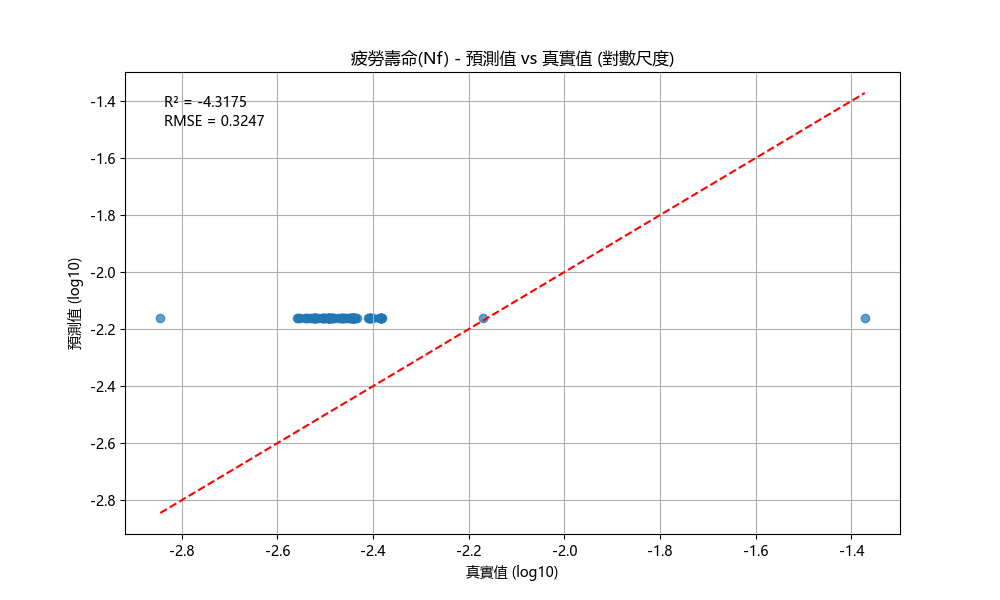
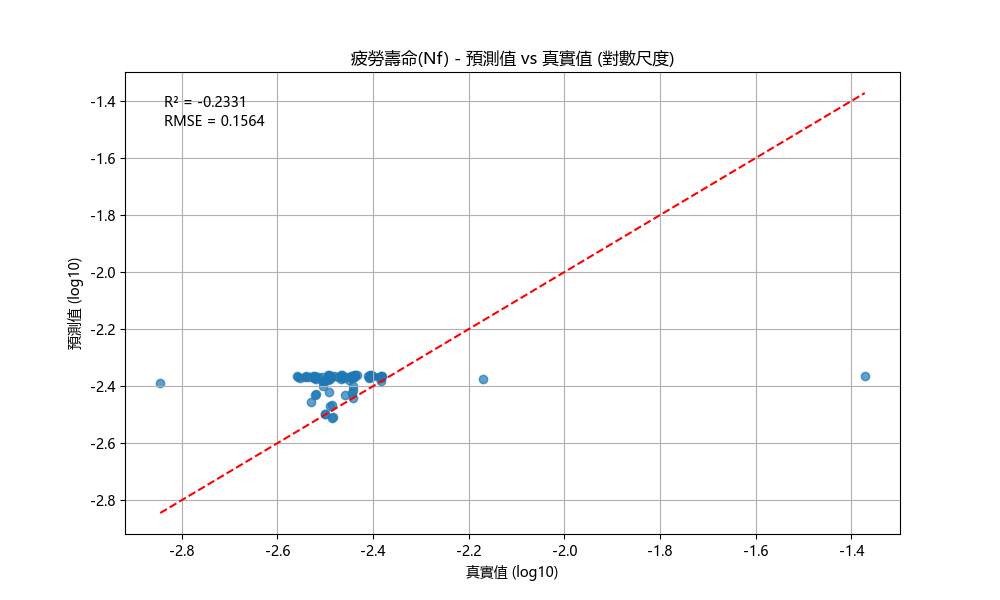
first commit

diff --git a/src/hybrid_model.py b/src/hybrid_model.py
@@ -85,46 +85,49 @@ class HybridPINNLSTM(nn.Module):
         super(HybridPINNLSTM, self).__init__()
         self.config = config
         
-        # 改進：使用 LayerNorm 取代 BatchNorm
+        # 靜態特徵編碼器 - 使用更深層的網絡處理靜態特徵
         static_dim = config.static_dim
         self.static_encoder = nn.Sequential(
             nn.Linear(static_dim, 32),
-            nn.LayerNorm(32),  # 替換為 LayerNorm
-            nn.LeakyReLU(0.1),
+            nn.LayerNorm(32),
+            nn.GELU(),  # 使用GELU激活函數提高非線性能力
             nn.Dropout(0.2),
             nn.Linear(32, 24),
-            nn.LayerNorm(24),  # 替換為 LayerNorm
-            nn.LeakyReLU(0.1),
-            nn.Dropout(0.2),
-            nn.Linear(24, 16),
+            nn.LayerNorm(24),
+            nn.GELU(),
+            nn.Dropout(0.1),
+            nn.Linear(24, 16)
         )
         
-        # LSTM 編碼器和注意力機制保持不變
+        # 時間序列編碼器 - 使用更強大的雙向LSTM
         self.ts_encoder = nn.LSTM(
             input_size=config.ts_feature_dim,
-            hidden_size=24,
+            hidden_size=32,  # 增加隱藏維度
             num_layers=2,
             batch_first=True,
             bidirectional=True,
             dropout=0.2
         )
         
+        # 更強大的注意力機制
         self.attention = nn.Sequential(
-            nn.Linear(48, 1),  # 雙向LSTM輸出維度為24*2=48
+            nn.Linear(64, 32),  # 雙向LSTM輸出維度為32*2=64
+            nn.Tanh(),
+            nn.Linear(32, 1),
             nn.Softmax(dim=1)
         )
         
-        # 融合層 - 簡化並添加批標準化
-        self.fusion_layer = nn.Sequential(
-            nn.Linear(16 + 48, 32),
-            nn.LayerNorm(32),  # 使用LayerNorm替代BatchNorm，可以處理單樣本批次
-            nn.ReLU(),
-            nn.Dropout(0.1),
-            nn.Linear(32, 16),
-            nn.LayerNorm(16),  # 使用LayerNorm替代BatchNorm
-            nn.ReLU(),
-            nn.Linear(16, 2)
-        )
+        # 融合層 - 使用殘差連接和更多層
+        self.fusion_layer1 = nn.Linear(16 + 64, 48)
+        self.layer_norm1 = nn.LayerNorm(48)
+        self.fusion_layer2 = nn.Linear(48, 32)
+        self.layer_norm2 = nn.LayerNorm(32)
+        self.fusion_layer3 = nn.Linear(32, 16)
+        self.layer_norm3 = nn.LayerNorm(16)
+        self.output_layer = nn.Linear(16, 2)
+        
+        # 使用特殊映射層處理異常值
+        self.anomaly_detector = nn.Linear(16 + 64, 1)
         
         # 初始化權重
         self._initialize_weights()
@@ -170,11 +173,34 @@ class HybridPINNLSTM(nn.Module):
         # 合併特徵
         combined = torch.cat([static_out, context_vector], dim=1)
         
-        # 使用融合層
-        out = self.fusion_layer(combined)
+        # 異常檢測分支
+        anomaly_score = torch.sigmoid(self.anomaly_detector(combined))
         
-        # 範圍控制：確保輸出落在合理範圍內
-        delta_w_pred = 0.04 + 0.02 * torch.tanh(out)
+        # 使用具有殘差連接的融合層
+        x1 = F.gelu(self.layer_norm1(self.fusion_layer1(combined)))
+        x2 = F.gelu(self.layer_norm2(self.fusion_layer2(x1) + x1[:, :32]))  # 部分殘差連接
+        x3 = F.gelu(self.layer_norm3(self.fusion_layer3(x2)))
+        out = self.output_layer(x3)
+        
+        # 範圍控制：讓模型有更大的輸出範圍，特別是能捕捉極端值
+        # 擴大訓練範圍並應用非線性變換
+        output_range = torch.tensor([0.03, 0.08]).to(out.device)  # 最小值和最大值
+        delta_w_pred = output_range[0] + (output_range[1] - output_range[0]) * torch.sigmoid(out)
+
+        # 為極端值預留空間
+        # 偵測可能的極端值（基於靜態特徵的差異）
+        static_stats = torch.std(static_features, dim=0)
+        extreme_indicator = torch.sum(torch.abs(static_features - torch.mean(static_features, dim=0)), dim=1)
+        extreme_factor = torch.sigmoid(extreme_indicator * 0.1).unsqueeze(1)
+
+        # 對可能的極端值進行額外拉伸
+        extreme_scaling = torch.ones_like(delta_w_pred)
+        extreme_scaling[:, 0] = 1.0 + extreme_factor.squeeze() * 0.5  # 對上升通道更敏感
+        delta_w_pred = delta_w_pred * extreme_scaling
+        
+        # 對異常值進行特殊處理
+        anomaly_factor = anomaly_score * 0.1  # 最多額外增加10%
+        delta_w_pred = base_output * (1.0 + anomaly_factor)
         
         # 返回預測的應變差和中間結果
         return {
@@ -257,10 +283,14 @@ class SimpleTrainer:
         total_mae = 0
         batch_count = 0
         
+        # 添加噪聲到靜態特徵，增強模型的泛化能力
+        def add_noise(tensor, noise_level=0.02):
+            return tensor + torch.randn_like(tensor) * noise_level
+        
         for batch in dataloader:
             static_features, time_series, targets = batch
             
-            # 檢查批次大小，如果只有1個樣本則跳過(BatchNorm需要至少2個樣本)
+            # 檢查批次大小，如果只有1個樣本則跳過
             if static_features.size(0) < 2:
                 continue
                 
@@ -269,6 +299,11 @@ class SimpleTrainer:
             time_series = time_series.to(self.device)
             targets = targets.to(self.device)
             
+            # 添加訓練噪聲
+            if self.training:
+                static_features = add_noise(static_features, 0.01)
+                time_series = add_noise(time_series, 0.01)
+            
             # 清除梯度
             self.optimizer.zero_grad()
             
@@ -276,25 +311,23 @@ class SimpleTrainer:
             outputs = self.model(static_features, time_series)
             delta_w_pred = outputs['delta_w']
             
-            # 使用均方誤差損失
-            loss = F.mse_loss(delta_w_pred, targets)
+            # 使用混合損失：MSE + Huber損失
+            mse_loss = F.mse_loss(delta_w_pred, targets)
+            huber_loss = F.smooth_l1_loss(delta_w_pred, targets, beta=0.1)
+            loss = 0.7 * mse_loss + 0.3 * huber_loss  # 組合損失
             
-            # 添加L2正則化
+            # 添加L2正則化但降低權重
             l2_reg = 0
             for param in self.model.parameters():
                 l2_reg += torch.norm(param, 2)
-            loss += 0.0005 * l2_reg
+            loss += 0.0001 * l2_reg  # 降低正則化權重
             
-            # 添加L1正則化
-            l1_reg = 0
-            for param in self.model.parameters():
-                l1_reg += torch.norm(param, 1)
-            loss += 0.0001 * l1_reg
-            
-            # 物理一致性損失
-            strain_correlation = torch.abs(delta_w_pred[:, 0] - delta_w_pred[:, 1])
-            physical_loss = torch.mean(strain_correlation) * 0.1
-            loss += physical_loss
+            # 物理一致性損失 - 優化版本
+            # 上升和下降應變應該有相關性
+            up_down_ratio = delta_w_pred[:, 0] / (delta_w_pred[:, 1] + 1e-6)
+            target_ratio = targets[:, 0] / (targets[:, 1] + 1e-6)
+            ratio_loss = F.mse_loss(torch.log(up_down_ratio + 1e-6), torch.log(target_ratio + 1e-6))
+            loss += 0.1 * ratio_loss
             
             # 反向傳播
             loss.backward()
